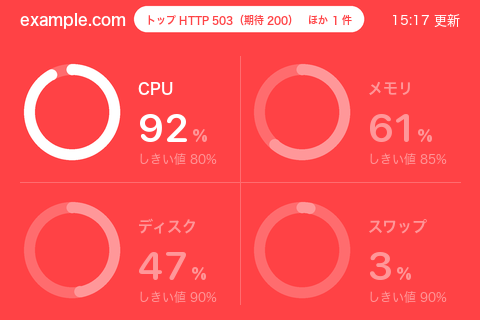
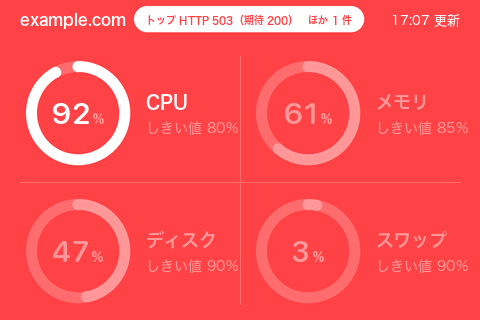
feat(monitor): 横置きの数字をリングの中に入れ、名前としきい値をリングの右に置く
ユーザーが見本の 2 案から 2×2 の案を選んだ（2026-10-15）。縦置きは変えていない（見本の値 3 通りで 1 ピクセルも違わないことを確かめた）。README の横置きの画像 3 枚を作り直した。

diff --git a/claude_usage_display/monitor_screen.py b/claude_usage_display/monitor_screen.py
@@ -7,8 +7,9 @@
   あれば、画面全体を明るい赤
   （HIG の Red）にする。赤い地では赤の文字が見えないため、アラートの項目を白ではっきり、ほかを薄く出す
 - ジョブの障害などは、地を黒のまま、見出しにオレンジで件数を出す
-- 横置きは、区画の左にリング、右に名前と大きな数字。縦置きは、名前の下にリング、リングの中に数字
-  （どちらもユーザーが見本の画像で選んだ。2026-10-10・2026-10-11）
+- 横置きは、区画の左にリング、リングの中に数字、右に名前としきい値。縦置きは、名前の下にリング、リングの中に数字
+  （どちらもユーザーが見本の画像で選んだ。縦置きは 2026-10-10・2026-10-11、横置きは 2026-10-15。横置きは
+  それまで、リングの右に名前と大きな数字を出していた）
 - 設定に ``logo`` があれば、見出しの名前の左にロゴを出す。大きさと縦の位置は、利用枠の画面の 3.5 インチの
   アイコンと同じ（20 ピクセル角の枠。名前の字の高さの中ほど）。地は黒と赤になるので、ロゴは白一色にする
 """
@@ -61,8 +62,11 @@ class _Layout:
 LANDSCAPE = _Layout(
     size=(480, 320), inset=20, title_baseline=25, pill=(116, 6, 364, 32), status_baseline=25, dot_y=20,
     status_size=13, alert_size=15, dot_radius=4.5, stamp_size=13, tall_pill=None, tall_baselines=None,
-    cells=((20, 44), (250, 44), (20, 182), (250, 182)), ring=(52, 68, 48, 11), label=(118, 50, "ls", 15),
-    number=(118, 98, 40, 18, False), threshold=(118, 120, "ls", 12), dividers=((240, 56, 240, 304), (20, 182, 460, 182)))
+    # 数字をリングの中に入れ、名前としきい値をリングの右で縦の中ほどに置く（2026-10-15、ユーザーが見本で選んだ）。
+    # 名前・しきい値は縦置きと同じ大きさ（18・14）。左の列の「しきい値 80%」（幅 92）の右端は 238 で、
+    # 区切り線（240）の 2 ピクセル手前。しきい値は 2 桁の整数まで収まる
+    cells=((20, 44), (250, 44), (20, 182), (250, 182)), ring=(58, 69, 52, 11), label=(126, 65, "ls", 18),
+    number=(58, 80, 30, 14, True), threshold=(126, 89, "ls", 14), dividers=((240, 56, 240, 304), (20, 182, 460, 182)))
 PORTRAIT = _Layout(
     size=(320, 480), inset=16, title_baseline=26, pill=(16, 38, 304, 70), status_baseline=60, dot_y=53.5,
     # 監視の状態は、実機を見たユーザーの指示で大きくした（2026-10-11。文言 13→18、帯の中 15→18）。

diff --git a/tests/test_monitor_screen.py b/tests/test_monitor_screen.py
@@ -8,7 +8,7 @@ from PIL import Image
 from claude_usage_display import monitor_screen as ms
 from claude_usage_display import server_monitor as sm
 from claude_usage_display.gauge import BACKGROUND, ICON_GAP, ICON_SIZE, ORANGE, RED
-from claude_usage_display.render import font
+from claude_usage_display.render import SMALL_WEIGHT, font
 from tests.test_server_monitor import NOW, config, status
 
 
@@ -30,8 +30,27 @@ class MonitorScreenTest(unittest.TestCase):
         image = self.render(status(values=(92, 61, 47, 3)))
         self.assertEqual(image.getpixel((2, 300)), RED)
         # CPU（左上）のリングの 3 時の位置は白、メモリ（右上）は薄い色
-        self.assertTrue(near(image.getpixel((20 + 52 + 48 - 5, 44 + 68)), (255, 255, 255)))
-        self.assertFalse(near(image.getpixel((250 + 52 + 48 - 5, 44 + 68)), (255, 255, 255)))
+        cx, cy, radius, width = ms.LANDSCAPE.ring
+        self.assertTrue(near(image.getpixel((round(20 + cx + radius - width / 2), 44 + cy)), (255, 255, 255)))
+        self.assertFalse(near(image.getpixel((round(250 + cx + radius - width / 2), 44 + cy)), (255, 255, 255)))
+
+    def test_landscape_puts_the_number_inside_the_ring(self):
+        # 2026-10-15 に、数字をリングの右からリングの中へ移した。リングの内側に数字の白があり、右には無い
+        image = self.render(status(values=(11, 61, 47, 3)))
+        cx, cy, radius, width = ms.LANDSCAPE.ring
+        inside = [image.getpixel((20 + x, 44 + y)) for x in range(round(cx - 20), round(cx + 20))
+                  for y in range(round(cy - 15), round(cy + 15))]
+        self.assertTrue(any(near(p, (255, 255, 255), 40) for p in inside))
+        label_x, label_y, _, _ = ms.LANDSCAPE.label
+        _, threshold_y, _, threshold_size = ms.LANDSCAPE.threshold
+        right = [image.getpixel((20 + x, 44 + y)) for x in range(label_x, 220)
+                 for y in range(round(label_y + 2), round(threshold_y - threshold_size))]
+        self.assertTrue(all(p == BACKGROUND for p in right))
+
+    def test_landscape_threshold_stays_left_of_the_divider(self):
+        threshold_x, _, _, threshold_size = ms.LANDSCAPE.threshold
+        end = ms.LANDSCAPE.cells[0][0] + threshold_x + font(threshold_size, SMALL_WEIGHT).getlength("しきい値 85%")
+        self.assertLess(end, ms.LANDSCAPE.dividers[0][0])
 
     def test_job_incidents_show_an_orange_dot_on_black(self):
         incidents = (sm.Incident("job", "nightly-backup", "直近の実行が失敗", None),)

diff --git a/docs/handover.md b/docs/handover.md
@@ -331,6 +331,13 @@ scripts/uninstall-launch-agent.sh                                 # 自動起動
 - `monitor.toml` の `logo` に画像のパスを書く（`~` と、設定ファイルからの相対パスが使える。無ければ設定の誤りとして止める）。画像はアイコンと同じフォルダに置き、リポジトリには入れない。大きさと縦の位置は、利用枠の画面の 3.5 インチのアイコンと同じ（`gauge.ICON_SIZE` の 20 ピクセル角の枠、名前の基準線から 5.5 ピクセル上が中心）。名前はその分（20＋6 ピクセル）右から始まる。`gauge.py` の見出しのアイコンを置く処理を `load_mark`・`paste_mark` に分けて共用した（利用枠の画面は、3.5 インチ・5.2 インチ、Antigravity を足した画面とも、1 ピクセルも変わらないことを確かめた）
 - **横置きでは、名前が監視の状態の帯にかかっていた**（ロゴを付ける前から）。横置きは名前と監視の状態が同じ行にあり、帯は 116〜364 ピクセルの固定だった。見本の `example.com`（15 ピクセルの W6 で幅 106 ピクセル、20〜126）は、赤の状態で末尾が帯に隠れ、取得に失敗したときの文言とも重なっていた（README の `monitor-alert.png` に「example.co」まで写っていた）。名前の右端＋8 ピクセルが帯の左端を越えるときは、帯と文言を右へ寄せるようにした（`monitor_screen.TITLE_GAP`）。名前が短いときと縦置き（帯は名前の下の行）は 1 ピクセルも変わらないことを確かめ、README の横置きの 2 枚を作り直した
 
+### 4-14. サーバーの状態の画面の横置きを、数字をリングの中に入れる形にした（2026-10-15）
+
+- **きっかけ**: ユーザーが「縦画面は変えずに、横画面にした場合の画像を」と求め、数字をリングの中に入れた見本を 2 通り描いた（いまの値と、`--demo alert` の値）。案 1 は 2×2 のまま、リングの右に名前としきい値。案 2 は 5.2 インチと同じ 4 つの縦の列（上から名前・リング・しきい値。列の幅が 120 ピクセルなのでリングは半径 47 に縮む）。**ユーザーが案 1 を選び、実機の画面を書き換えるよう指示した**（17:07）
+- `monitor_screen.LANDSCAPE` の値だけを変えた。リングは区画の (58, 69) を中心に半径 52・太さ 11（前は (52, 68)・48）。数字はリングの中に 30 ピクセル（% は 14）で中央にそろえる（前はリングの右に 40 ピクセル）。名前は 18 ピクセル（前は 15）、しきい値は 14 ピクセル（前は 12）で、どちらも縦置きと同じ大きさ。左の列の「しきい値 80%」の右端は 238 で、区切り線（240）の 2 ピクセル手前（2 桁の整数のしきい値まで収まる）
+- 確かめたこと: 新しい横置きが見本の案 1 と、縦置きが変更前のコードと、正常・異常・ジョブの障害の見本の値で、架空の設定・実際の設定のどちらでも 1 ピクセルも違わない。テストは 144 件すべて通過。足したテスト（`test_landscape_puts_the_number_inside_the_ring`）は、変更前の配置に戻すと落ちる。README の横置きの 3 枚を作り直した（縦置きの 1 枚は、描いた時刻の数字のほかは同じだったので変えていない）
+- **横置きの見出しの行は変えていない。**縦置きは 2026-10-11 に実機を見たユーザーの指示で、監視の状態を 13→18 ピクセル、右上の時刻を 13→16 ピクセルにしたが、横置きは 13 ピクセルのまま。名前と同じ行に帯を置くので、異常のときのアラートは帯の幅に合わせて縮み、縦置きの 18 ピクセルよりずっと小さい。見本を出したときにユーザーへ伝えた
+
 ## 5. 残っている作業（上から順に）
 
 1〜5 は 2026-10-05 に終えた（README.md、CLAUDE.md、requirements.txt と .gitignore、自動起動の作成と登録、git の初期化と push）。
